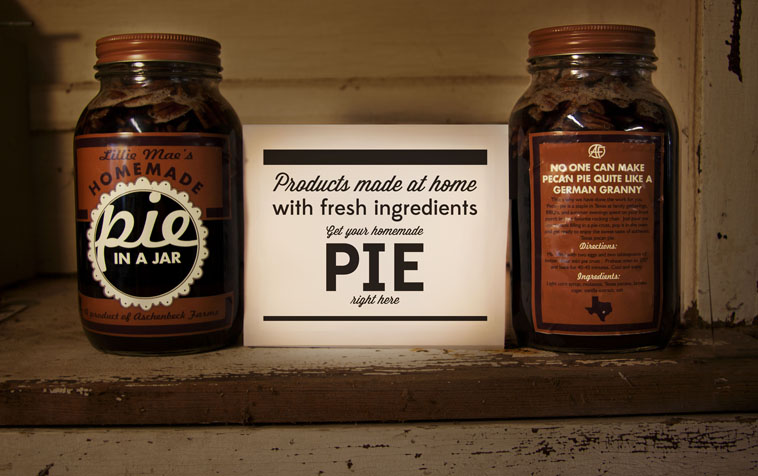
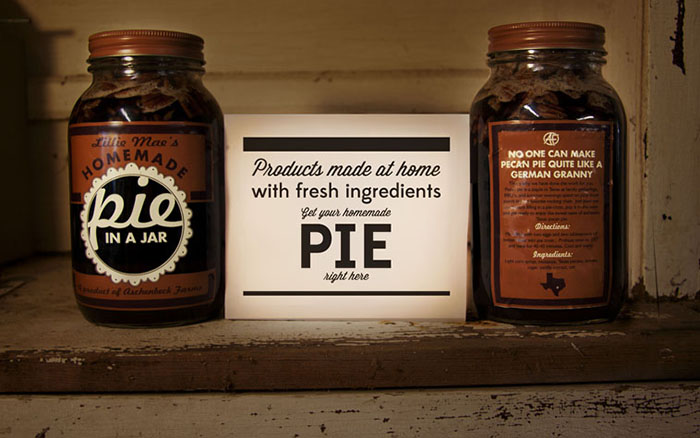
attempting to figure out overlays

diff --git a/index_1.html b/index_1.html
@@ -5,7 +5,7 @@
     <meta name="viewport" content="width=device-width, initial-scale=1.0" />
     <title>Kelsey Aschenbeck</title>
       <!-- <link rel="stylesheet" href="css/foundation.css" /> --> 
-    <link rel="stylesheet" href="css/portfolio.css" />
+    <!-- <link rel="stylesheet" href="css/portfolio.css" /> -->
     <link rel="stylesheet" href="css/sample.css" /> 
     
     <script src="js/vendor/modernizr.js"></script>
@@ -27,7 +27,7 @@
                         </div>
 
                         <div class="go R col75 icon pointer">
-                            <span>m</span>
+                            <span></span>
                         </div>
                     </div>
                 </div>
@@ -68,14 +68,14 @@
                 <div class="stretch posts light loadfade">
                     <div class="container">
                         <div class="inner scroll clearfix">
-                            <div class="post scrollitem L col66 latest bez">
+                            <div class="post scrollitem L col66 bez">
                                 <article>
                                     <a class="fade" href=
                                     "aschenbeckfarms.html"
                                     title="Aschenbeck Farms">
                                     <div class="wrap medium-12 columns">
-                                        <img alt="img/AF1_noborder.jpg"
-                                        
+                                        <img alt="img/AF1.jpg"
+                                        height="438" width="700"
                                          src="img/AF1.jpg"
                                         >
 
@@ -97,7 +97,7 @@
                                     "salsa.html"
                                     title="Home-Made Salsa">
                                     <div class="wrap large-4 medium-12 columns">
-                                        <img alt="salsa packaging" class=
+                                        <img height="438" width="700" alt="salsa packaging" class=
                                         "attachment-thumbnail wp-post-image"
                                          src=
                                         "img/Salsa2.jpg"
@@ -125,7 +125,7 @@
                                     "thinkery.html"
                                     title="Thinkery">
                                     <div class="wrap large-4 medium-12 columns">
-                                        <img alt="Thinkery"
+                                        <img height="438" width="700" alt="Thinkery"
                                         class="attachment-thumbnail wp-post-image"
                                          src=
                                         "img/Thinkery_Poster_CloseUp.jpg"
@@ -151,9 +151,9 @@
                                     <div class="wrap">
                                         <img alt="Cummins Creek Vineyards"
                                         class="attachment-thumbnail wp-post-image"
-                                        height="438" src=
+                                        height="438" width="700"src=
                                         "img/CCVineyards4.jpg"
-                                        width="700">
+                                        >
 
                                         <div class="overlay">
                                             <div class="fauxtable">

diff --git a/css/sample.css b/css/sample.css
@@ -91,6 +91,14 @@ Version: 1.1
 		font-size: 18px;
 		text-align: right;
 	}
+	.pointer span {
+		background: url(http://i.imgur.com/wz018oc.png) no-repeat 0 0;
+		display: block;
+		width: 40px;
+		height: 40px;
+
+	}
+	}
 	.dropmenu {
 		display: none;
 		border-bottom: solid 1px #e1e1e1;
@@ -190,10 +198,11 @@ Version: 1.1
 	}
 	.posts .post a .wrap {
 		position: relative;
+
 	}
 	.posts .post.latest .wrap,
 	.posts .post.latebig .wrap /*hack for extra height*/ {
-		padding-bottom: 3px;
+		/*padding-bottom: 3px;*/
 	}
 	.posts .post a img {
 		width: 100%;
